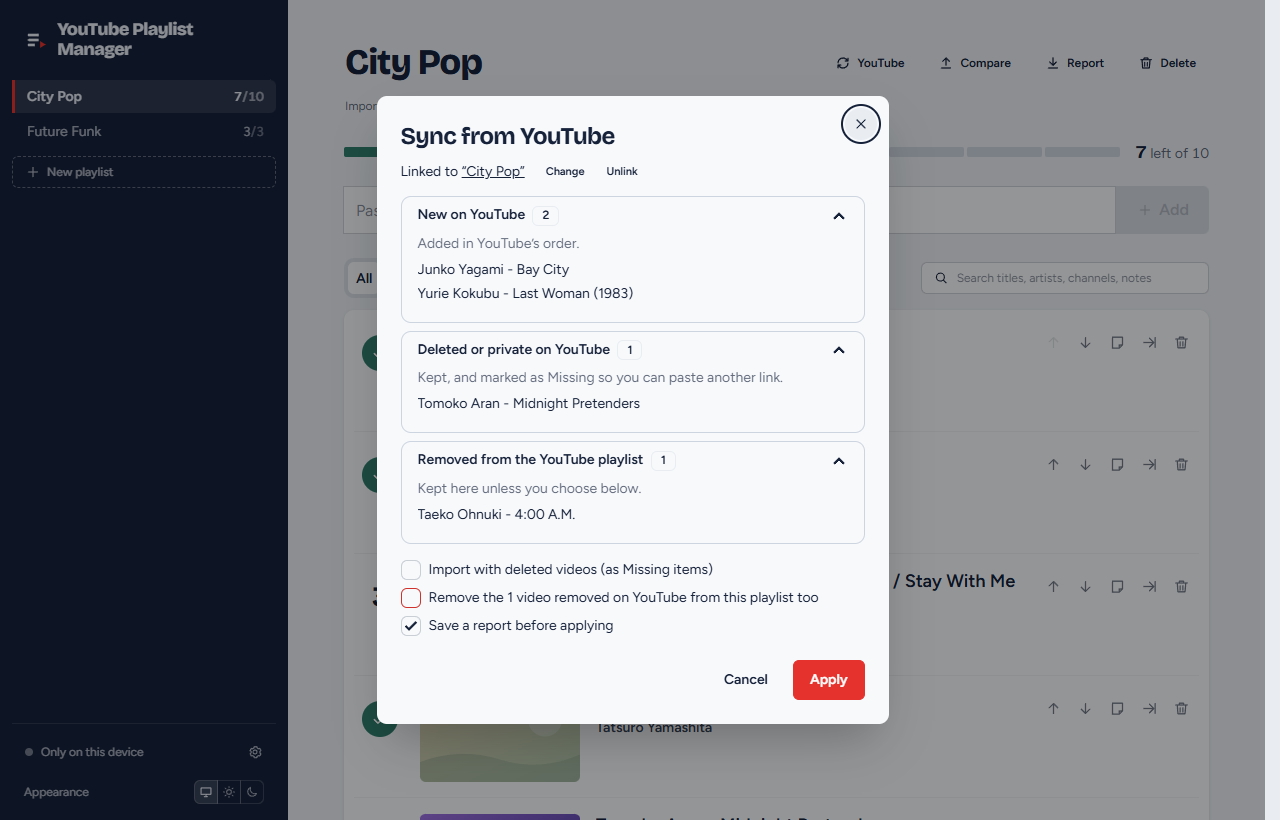
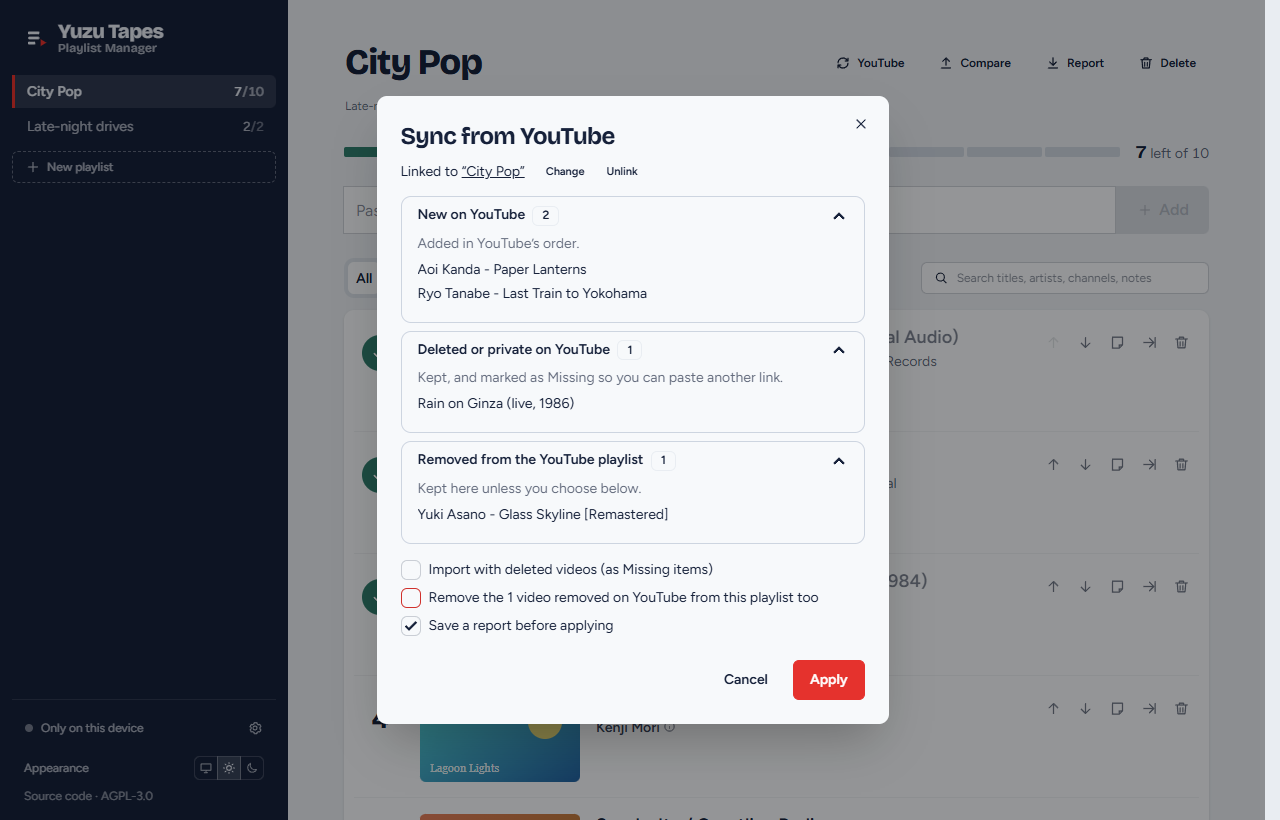
Docs: new screenshots with the Yuzu Tapes name, and contents indexes
Retakes the six README screenshots at the same sizes (1280x820, and 390x844
at 2x for the phone) with made-up sample data and placeholder thumbnails, now
with the Yuzu Tapes sidebar. Adds a contents list to the README and to
docs/architecture.md.

diff --git a/README.md b/README.md
@@ -2,6 +2,24 @@
 
 Keep your own playlists of videos (music, talks, recipes, anything you want to watch), put them in order, mark what you've watched, keep notes, and play them in place. YouTube is the first source. Each video shows its artist, guessed from YouTube and editable, and a playlist imported from YouTube can be synced with it again later. Everything is stored in a **SQLite database inside your browser**, so the app works offline. An **ASP.NET Core API** with **Entity Framework Core** syncs that database with **PostgreSQL** (Neon) so your phone and laptop stay in step. The web app is hosted on **Netlify**; the API runs as a Docker container on **Render**, and Netlify forwards `/api` to it.
 
+## Contents
+
+- [Screenshots](#screenshots)
+- [How it fits together](#how-it-fits-together)
+- [Project layout](#project-layout)
+  - [Layers](#layers) · [Styles](#styles) · [How sync works](#how-sync-works)
+- [Run it locally](#run-it-locally)
+  - [Local settings](#local-settings)
+- [Deploy](#deploy)
+  - [1. Neon](#1-create-the-database-on-neon) · [2. Render](#2-deploy-the-api-on-render) · [3. Netlify](#3-deploy-the-web-app-on-netlify) · [4. Connect your devices](#4-connect-your-devices) · [Automatic deploys](#automatic-deploys-only-what-changed)
+- [Importing YouTube playlists](#importing-youtube-playlists)
+  - [Syncing a playlist from YouTube](#syncing-a-playlist-from-youtube)
+- [Reports and Compare](#reports-and-compare)
+- [Notes and limits](#notes-and-limits)
+- [License](#license)
+- [Trademark](#trademark)
+- [Architecture](docs/architecture.md) (separate page)
+
 ## Screenshots
 
 | Light | Dark |

diff --git a/docs/architecture.md b/docs/architecture.md
@@ -2,6 +2,13 @@
 
 Two views of Yuzu Tapes Playlist Manager: how the code is split into components, and where each part runs once deployed. GitHub renders both diagrams from the Mermaid source below.
 
+## Contents
+
+- [Components](#components)
+  - [Web app](#web-app) · [.NET API](#net-api)
+- [Deployment](#deployment)
+- [Back to the README](../README.md)
+
 ## Components
 
 ### Web app
